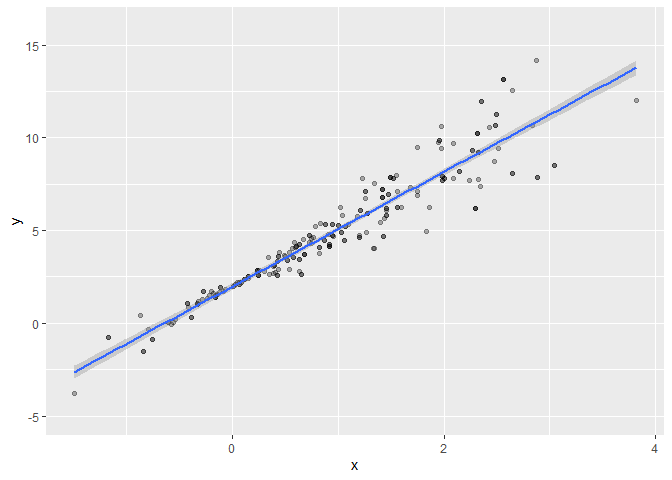
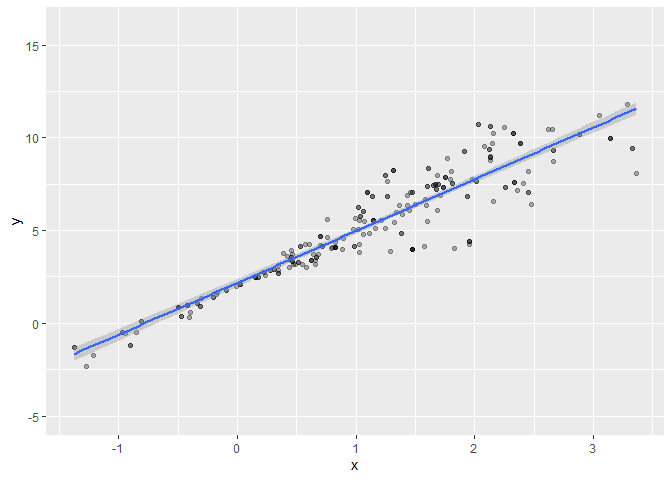
plotted and boostrapped airbnb

Changed region(s): [[0.0938, 0.125, 0.9688, 0.7812], [0.6875, 0.5, 0.7188, 0.5312], [0.3438, 0.9062, 0.375, 0.9375]]

diff --git a/bootstrap.md b/bootstrap.md
@@ -20,6 +20,7 @@ library(tidyverse)
 
 ``` r
 library(modelr)
+library(p8105.datasets)
 ```
 
 ## Simulate Data
@@ -78,8 +79,8 @@ lm(y~x, data = sim_df_const) %>%  broom::tidy()
     ## # A tibble: 2 × 5
     ##   term        estimate std.error statistic   p.value
     ##   <chr>          <dbl>     <dbl>     <dbl>     <dbl>
-    ## 1 (Intercept)     1.95    0.0874      22.3 4.54e- 61
-    ## 2 x               3.07    0.0605      50.7 7.55e-133
+    ## 1 (Intercept)     2.08    0.0972      21.4 3.91e- 58
+    ## 2 x               2.96    0.0640      46.2 7.11e-124
 
 ``` r
 lm(y~x, data = sim_df_nonconst) %>%  broom::tidy()
@@ -88,8 +89,8 @@ lm(y~x, data = sim_df_nonconst) %>%  broom::tidy()
     ## # A tibble: 2 × 5
     ##   term        estimate std.error statistic   p.value
     ##   <chr>          <dbl>     <dbl>     <dbl>     <dbl>
-    ## 1 (Intercept)     1.97    0.0873      22.5 5.55e- 62
-    ## 2 x               3.10    0.0605      51.3 5.92e-134
+    ## 1 (Intercept)     2.10    0.111       18.9 5.11e- 50
+    ## 2 x               2.90    0.0732      39.6 2.73e-109
 
 ``` r
 # from our plots we can see that there is alot of uncertainty because of fanning out. We can get estimates and stand deviation if we were to make assumptions but we want to solve the issue of uncertainty by bootstrapping. Issue is that we also don't trust the uncertainty of the estimates.
@@ -135,8 +136,8 @@ bootstrap_sample(sim_df_nonconst) %>%
     ## # A tibble: 2 × 5
     ##   term        estimate std.error statistic   p.value
     ##   <chr>          <dbl>     <dbl>     <dbl>     <dbl>
-    ## 1 (Intercept)     1.89    0.0814      23.2 5.16e- 64
-    ## 2 x               3.24    0.0574      56.5 1.37e-143
+    ## 1 (Intercept)     2.20    0.113       19.6 3.86e- 52
+    ## 2 x               2.81    0.0723      38.9 1.69e-107
 
 ``` r
 # not a cohesive way of analysis
@@ -201,8 +202,8 @@ boot_results %>%
     ## # A tibble: 2 × 3
     ##   term        mean_est sd_est
     ##   <chr>          <dbl>  <dbl>
-    ## 1 (Intercept)     1.97 0.0557
-    ## 2 x               3.10 0.0862
+    ## 1 (Intercept)     2.10 0.0640
+    ## 2 x               2.90 0.0815
 
 ``` r
 # giving the actual standard error and can we mimic this without making an assumption. Previously we have used a linear model that is a coincidence rather than what happens. If we compare bootstrap this is lower is we assumed constant variance which we have done in this example where we assume constant variance. 
@@ -238,8 +239,8 @@ boot_results %>%
     ## # A tibble: 2 × 3
     ##   term        ci_lower ci_upper
     ##   <chr>          <dbl>    <dbl>
-    ## 1 (Intercept)     1.86     2.08
-    ## 2 x               2.94     3.27
+    ## 1 (Intercept)     1.98     2.23
+    ## 2 x               2.75     3.06
 
 ``` r
 # we get a CI based on repeated sampling and this gives about 2.91 and 3.31
@@ -271,8 +272,8 @@ mutate(   # replaced id with id, we simply just renamed it without having to use
     ## # A tibble: 2 × 3
     ##   term        mean_est sd_est
     ##   <chr>          <dbl>  <dbl>
-    ## 1 (Intercept)     1.97 0.0536
-    ## 2 x               3.10 0.0812
+    ## 1 (Intercept)     2.10 0.0683
+    ## 2 x               2.90 0.0843
 
 ``` r
 #boostrap says draw me a sample from this df, resample saves memory not new samples. In cross validation we used a df and mcgv but it doesn't work well so we'll do the same thing we've done. 
@@ -285,3 +286,110 @@ Yes, they both work well
 
 - if assumptions are true we can just use the linear models but we can
   also do this as well.
+
+## Revisist NYC Airbnb
+
+``` r
+data("nyc_airbnb")
+
+
+nyc_airbnb=
+  nyc_airbnb %>% 
+  mutate( stars = review_scores_location / 2) %>% 
+  rename(
+    
+    borough = neighbourhood_group,
+    neighborhood = neighbourhood) %>% 
+  filter(borough != "Staten Island") %>% 
+    select(price, stars, borough, neighborhood, room_type)
+```
+
+``` r
+# graph first to see if there is any relationship. We see some relationship between stars and price but some non constant variance. We get same estimates but some standard errors that are not correct. 
+
+nyc_airbnb %>% 
+  ggplot(aes(x = stars , y = price))+
+  geom_point()
+```
+
+    ## Warning: Removed 9962 rows containing missing values or values outside the scale range
+    ## (`geom_point()`).
+
+![](bootstrap_files/figure-gfm/unnamed-chunk-15-1.png)<!-- -->
+
+``` r
+nyc_airbnb %>% 
+  filter(borough == "Manhattan") %>% 
+  drop_na(stars) %>% 
+    ggplot(aes(x = stars , y = price))+
+  geom_point()
+```
+
+![](bootstrap_files/figure-gfm/unnamed-chunk-16-1.png)<!-- -->
+
+Now we want to bootstrap, take a sample with replacement , fit a
+regression of price against stars and save the estimated intercept and
+slope each time.
+
+``` r
+airbnb_boot_results = nyc_airbnb %>% 
+  filter(borough == "Manhattan") %>% 
+  drop_na(stars) %>% 
+  bootstrap(1000,id = "strap_number") %>%   #generate 1000 samples 
+mutate(   
+    
+    models = map(.x = strap, ~lm( price~stars, data = .x)),  # fit a model to each of these samples price~ stars
+    results = map(models, broom::tidy)
+  ) %>% 
+  select(strap_number, results) %>% 
+  unnest(results) 
+
+
+
+airbnb_boot_results%>%   
+  group_by(term) %>% 
+  summarize(
+    
+    mean_est = mean(estimate),
+    sd_est = sd(estimate)
+  )
+```
+
+    ## # A tibble: 2 × 3
+    ##   term        mean_est sd_est
+    ##   <chr>          <dbl>  <dbl>
+    ## 1 (Intercept)    -33.2  33.8 
+    ## 2 stars           43.1   6.86
+
+``` r
+# bootstrap has higher variance bc of the noncontant variance 
+```
+
+Compare this to `lm`
+
+``` r
+nyc_airbnb %>% 
+  filter(borough == "Manhattan") %>% 
+  drop_na(stars) %>% 
+  lm(price~stars, data = .) %>% 
+  broom::tidy()
+```
+
+    ## # A tibble: 2 × 5
+    ##   term        estimate std.error statistic  p.value
+    ##   <chr>          <dbl>     <dbl>     <dbl>    <dbl>
+    ## 1 (Intercept)    -34.3     22.9      -1.50 1.35e- 1
+    ## 2 stars           43.3      4.78      9.07 1.39e-19
+
+``` r
+airbnb_boot_results %>% 
+  filter( term == "stars") %>% 
+  ggplot(aes(x = estimate))+
+  geom_density()
+```
+
+![](bootstrap_files/figure-gfm/unnamed-chunk-19-1.png)<!-- -->
+
+``` r
+# assumig constant variance would think that everything is normally distribute but based on this graph no. We can get uncertainty and distribution of normal sampling wihout having to assume normality with bootstrapping. 
+```
